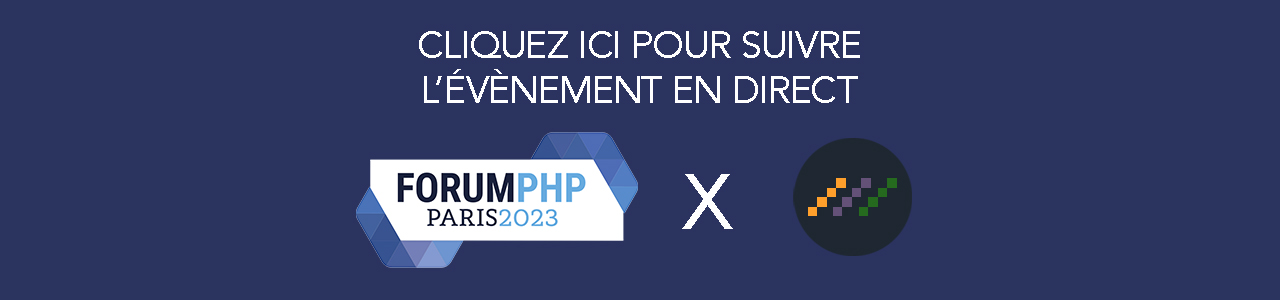
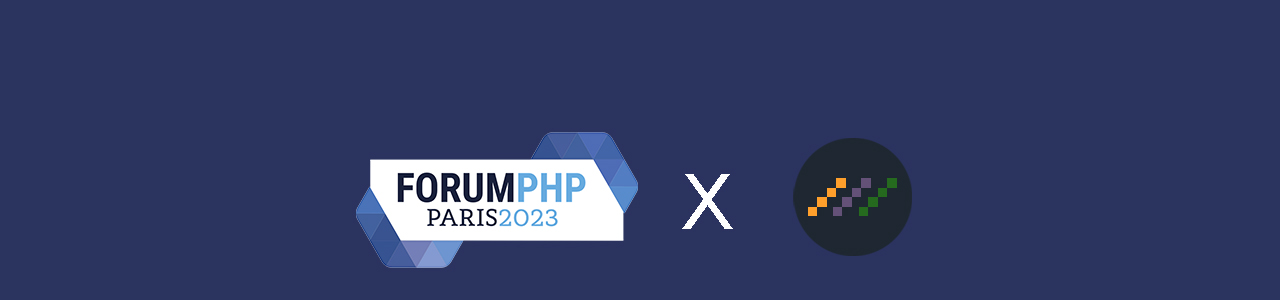
Update image and text

Changed region(s): [[0.3125, 0.09, 0.6875, 0.21], [0.3125, 0.24, 0.6875, 0.36]]

diff --git a/website/app/themes/newsmatic-child/styles/homepage.css b/website/app/themes/newsmatic-child/styles/homepage.css
@@ -51,4 +51,8 @@
     background-position: center center;
     background-size: cover;
     background-repeat: no-repeat;
+    text-align: center;
+    padding-top: 0.25em;
+    font-size: xx-large;
+    text-transform: uppercase;
 }

diff --git a/website/app/themes/newsmatic-child/index.php b/website/app/themes/newsmatic-child/index.php
@@ -20,7 +20,7 @@ get_header();
  */
 if( is_home() && is_front_page() )
 ?>
-    <div class="newsmatic-child-event-banner slide-item slick-clone"></div>
+    <div class="newsmatic-child-event-banner slide-item slick-clone">cliquez ici pour suivre<br>l'évènement avec nous</div>
 <?php
 
 do_action( 'newsmatic_main_banner_hook' );
